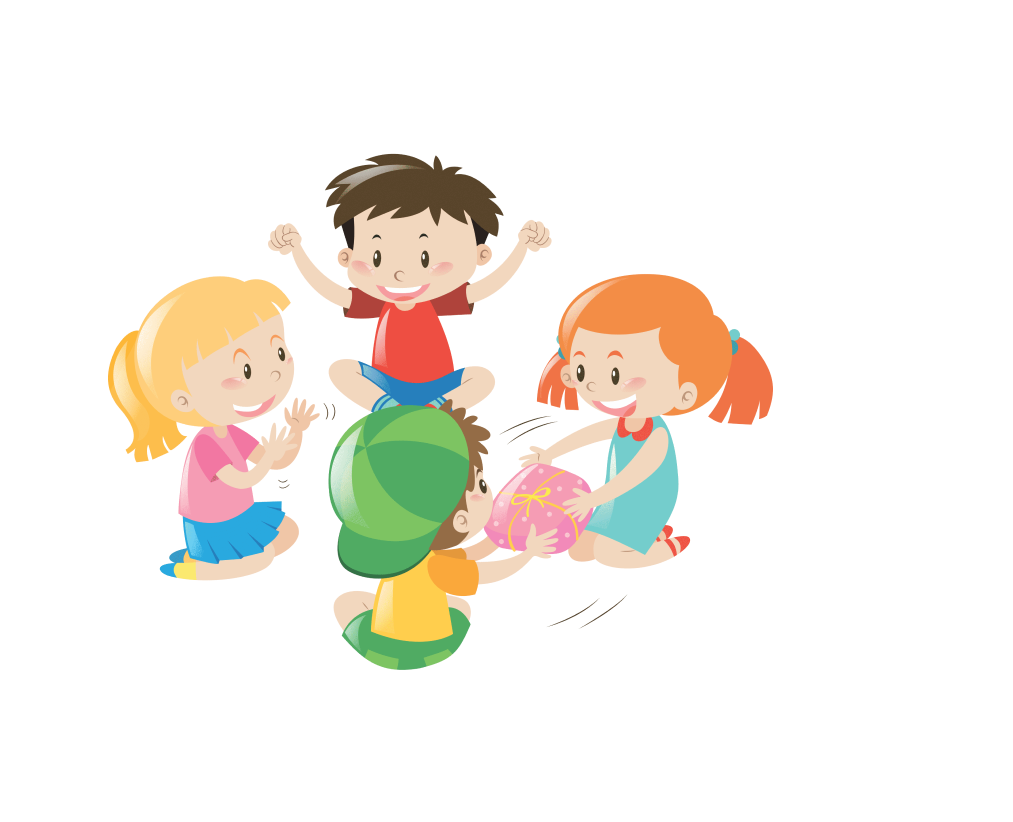
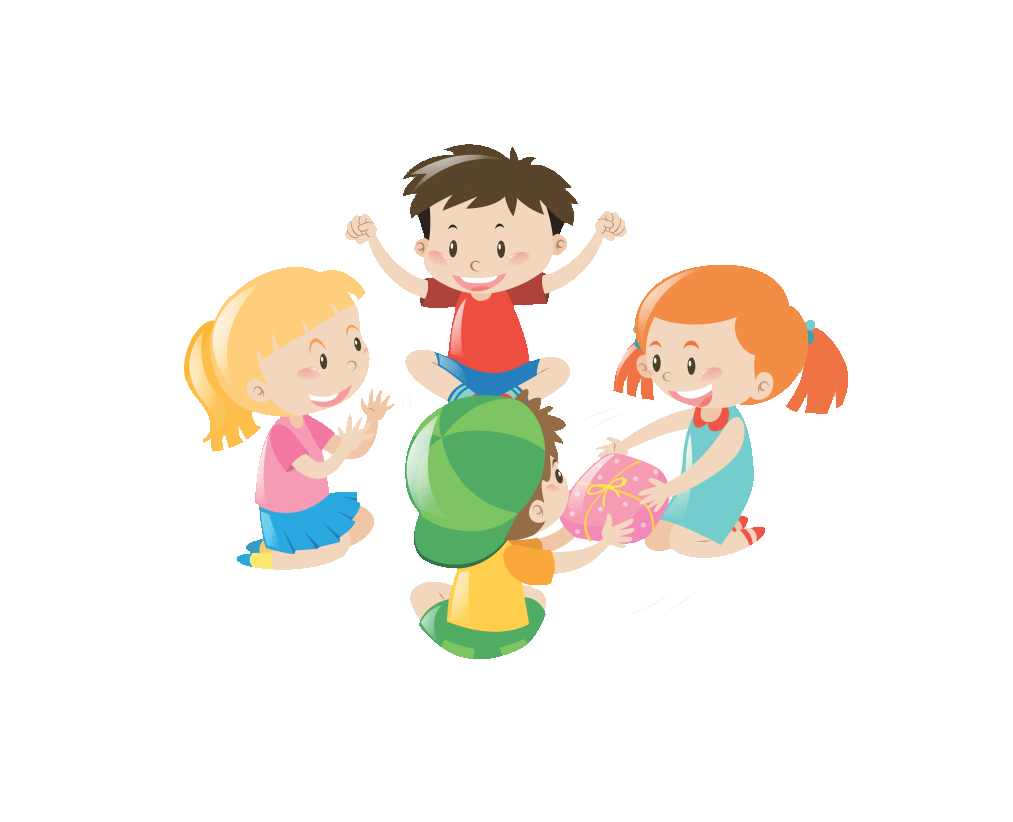
added career section

Changed region(s): [[0.0918, 0.1521, 0.8569, 0.8212]]

diff --git a/index.html b/index.html
@@ -108,7 +108,7 @@
             </div>
         </section>
         <!-- Features section start here  -->
-        <section class="features-section">
+        <section class="second-features-section">
             <div class="features-container second-features-container">
                 <div class="features-box">
                     <h1 class="containt-tittle"><span class="text-gradient">Play Instantly,</span> <br>
@@ -122,6 +122,45 @@
 
 
             </div>
+        </section>
+
+        <section class="career-section">
+
+            <div class="career-container">
+                <div class="career-containt-box">
+                    <h1 class="career-tittle">Careers</h1>
+                    <p class="career-description">Gamer is driven to create the best and most fun games for our millions
+                        of players all around the world, and we,re always on the lookout for more top talent to join our
+                        growing team. If you,d like to help us make great games and be a part of Gamers bright future,
+                        we,d love to hear from you.</p>
+                    <div class="career-list-box">
+                        <ul>
+                            <li>Multimedia Artist +</li>
+                            <li>Data Engineer +</li>
+                            <li>Adroid Engineer +</li>
+                            <li>Server Developer +</li>
+                            <li>Group Financial Accountant +</li>
+                            <li>Senior User Acuisition Specialist +</li>
+                        </ul>
+                        <ul class="right-list">
+                            <li>Lisbon, Portugal</li>
+                            <li>Lisbon, Portugal</li>
+                            <li>Zoetermeer, Netherlands</li>
+                            <li>Lisbon, Portugal</li>
+                            <li>London, United Kingdom</li>
+                            <li>Lisbon, Portugal</li>
+                        </ul>
+                    </div>
+                    <button class="btn-primary btn-white">See all positions</button>
+                </div>
+                <div class="career-img-box">
+                    <img src="./images/Group 65.png" alt="" class="career-img">
+
+                </div>
+
+
+            </div>
+
         </section>
     </main>
 

diff --git a/style/style.css b/style/style.css
@@ -20,7 +20,7 @@
     margin: 10px 0;
 }
 
-.text-gradient {
+.text-gradient{
     background: linear-gradient(180deg, #F948B2 0%, #8758F1 100%);
     background-clip: text;
     -webkit-background-clip: text;
@@ -263,8 +263,11 @@ nav {
 
 
 /* Secund Features Section  */
+.second-features-section {
+    margin: 150px 200px 0;
+}
 
-.second-features-container{
+.second-features-container {
     flex-direction: row-reverse;
 }
 
@@ -284,6 +287,76 @@ nav {
     right: -75px;
     bottom: -30px;
 }
+
+/* Careen style */
+.career-section {
+    margin-top: 100px;
+    background: linear-gradient(90deg, #FF42A5 0%, #FF42A5 100%);
+    padding: 0 200px;
+}
+
+.career-container {
+    display: flex;
+    justify-content: space-between;
+    align-items: center;
+    /* background-image: url('../images/Vector\ 2.png');
+    background-repeat: no-repeat;
+    background-position: right;
+    ba */
+}
+
+.career-tittle {
+    color: #FFF;
+    font-size: 2.5rem;
+    font-style: normal;
+    font-weight: 700;
+}
+
+.career-description {
+    color: #FFF;
+    font-size: 0.8rem;
+    font-weight: 400;
+    padding: 24px 0px;
+    text-align: justify;
+}
+
+.career-list-box {
+    display: flex;
+    justify-content: space-between;
+    list-style: none;
+}
+
+.career-list-box>ul {
+    list-style: none;
+}
+
+.career-list-box>ul li {
+    font-size: 0.9rem;
+    color: #FFF;
+    font-weight: 600;
+    line-height: 30px;
+
+}
+
+.right-list {
+    text-align: right;
+}
+.btn-white{
+    background: #FFF;
+    color: #FF42A5;
+    margin-top: 30px;
+}
+
+.career-img {
+    width: 500px;
+    fill: rgba(255, 255, 255, 0.10);
+}
+
+
+
+
+
+
 
 @media screen and (max-width:576px) {
 
